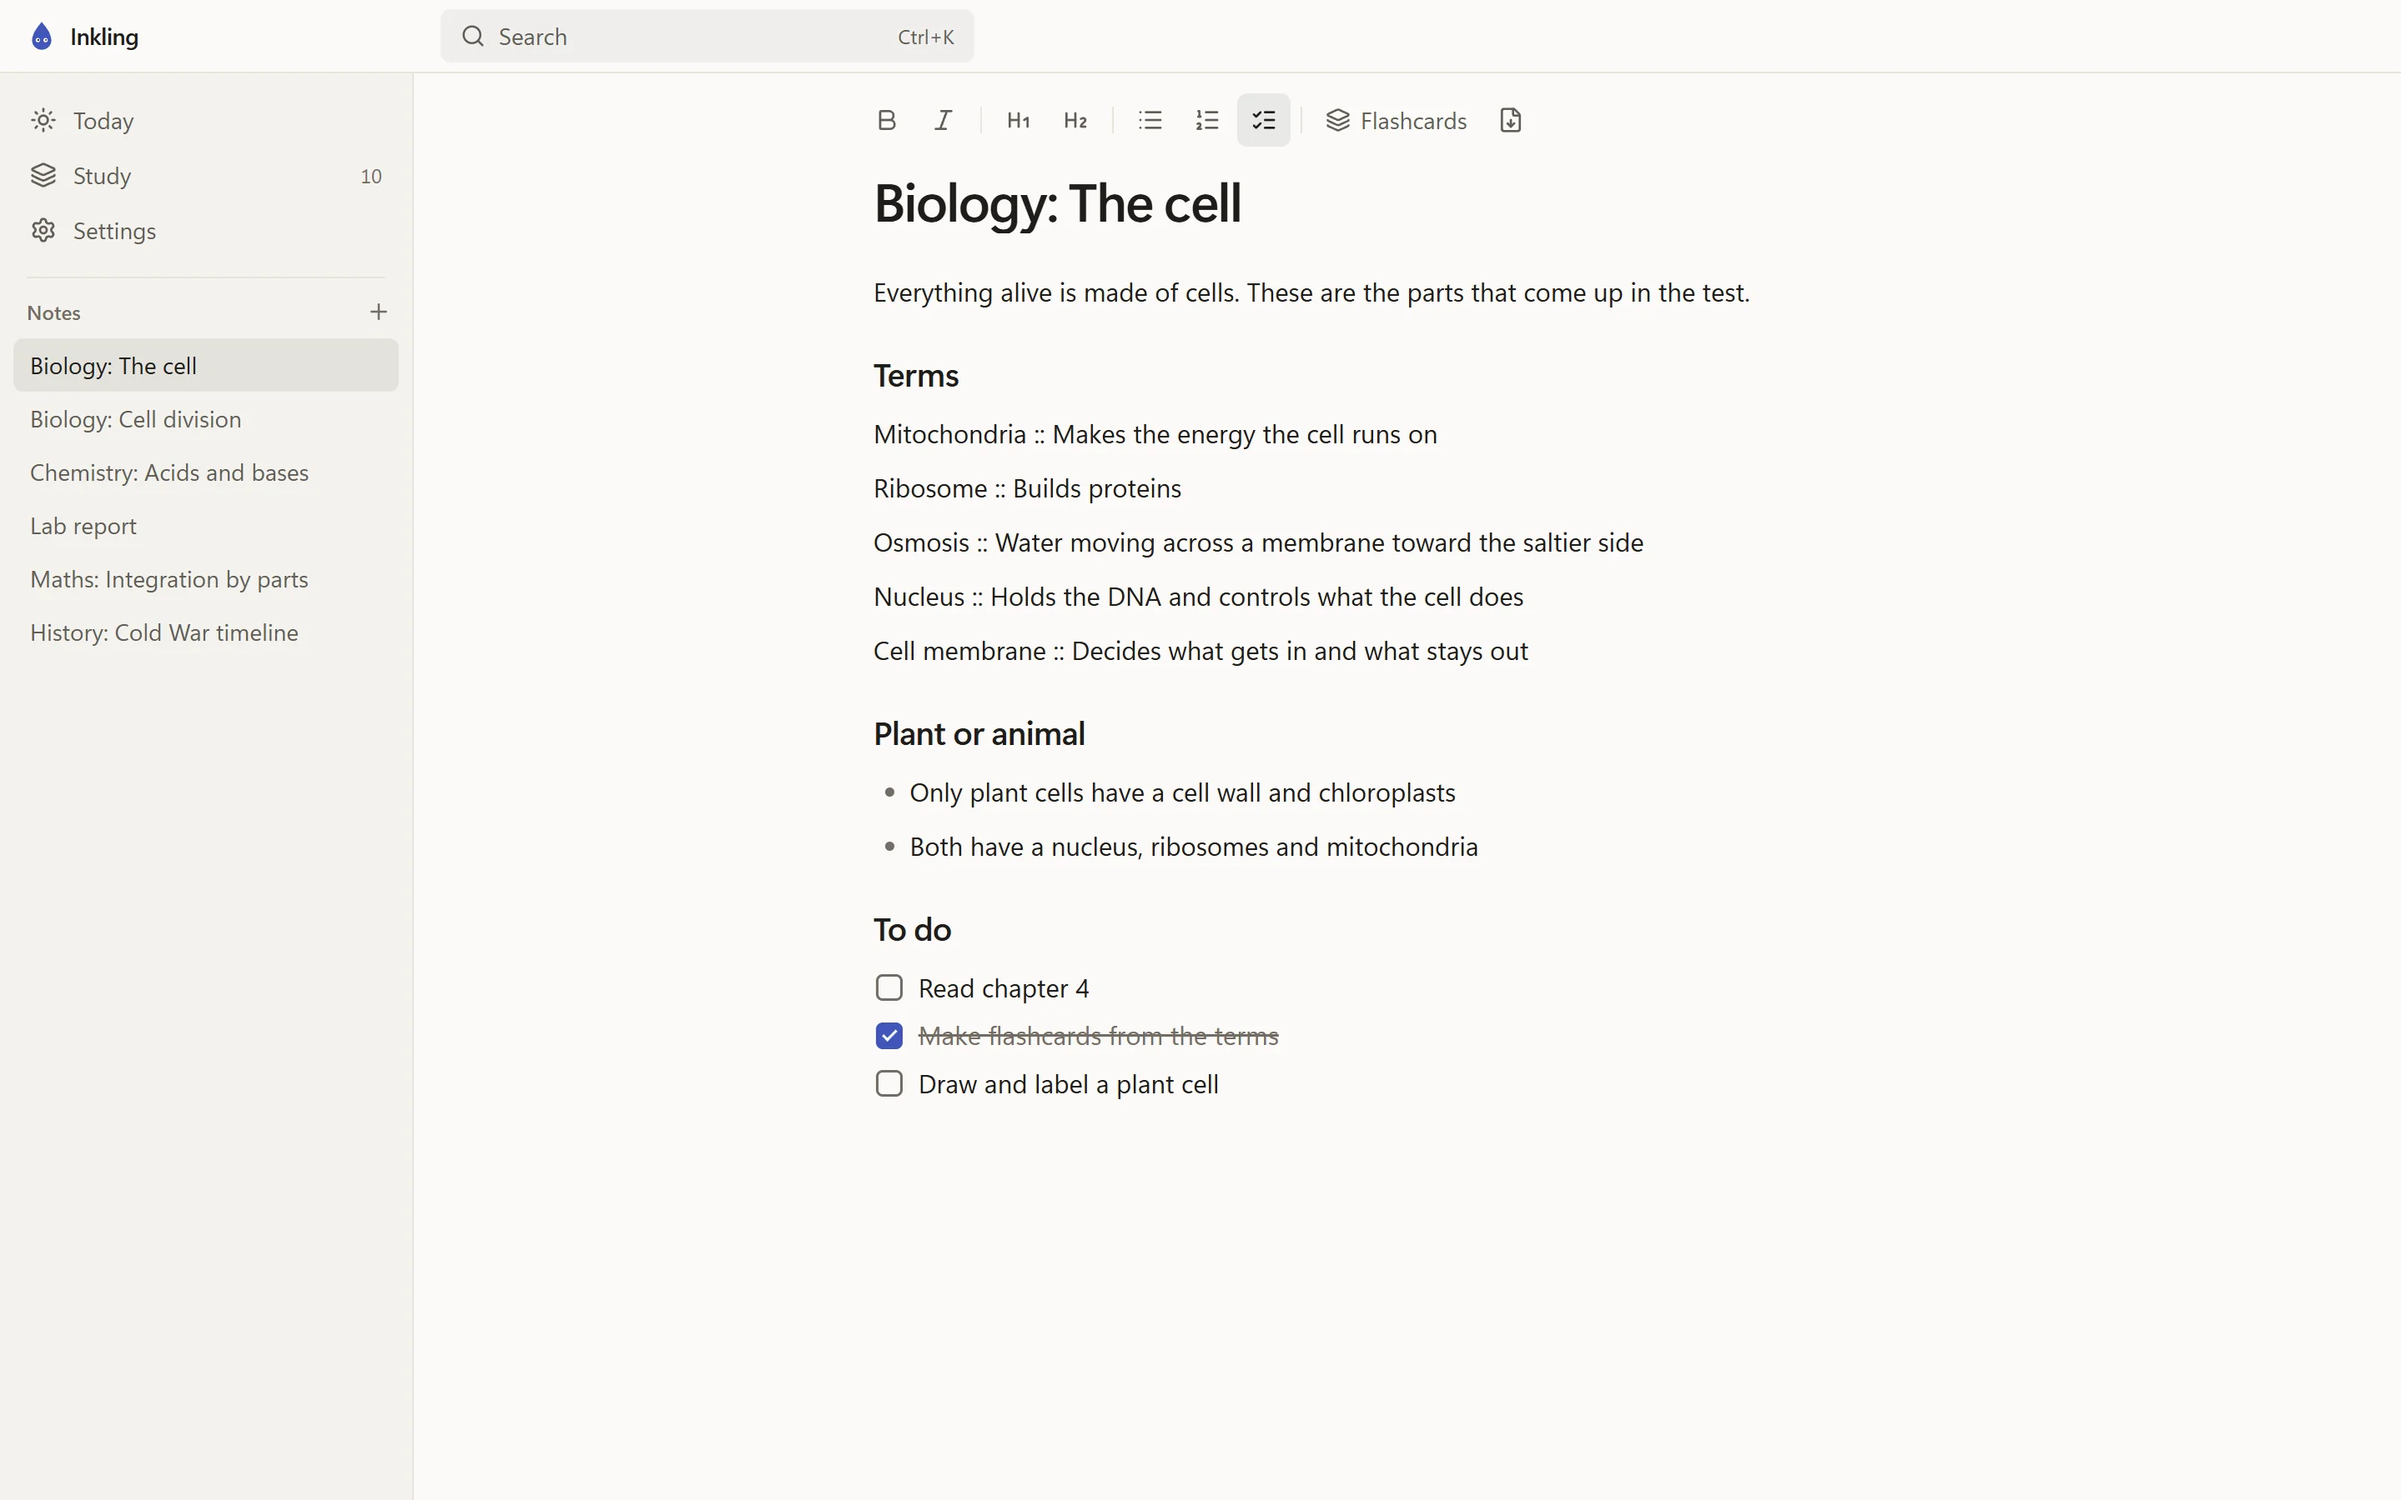
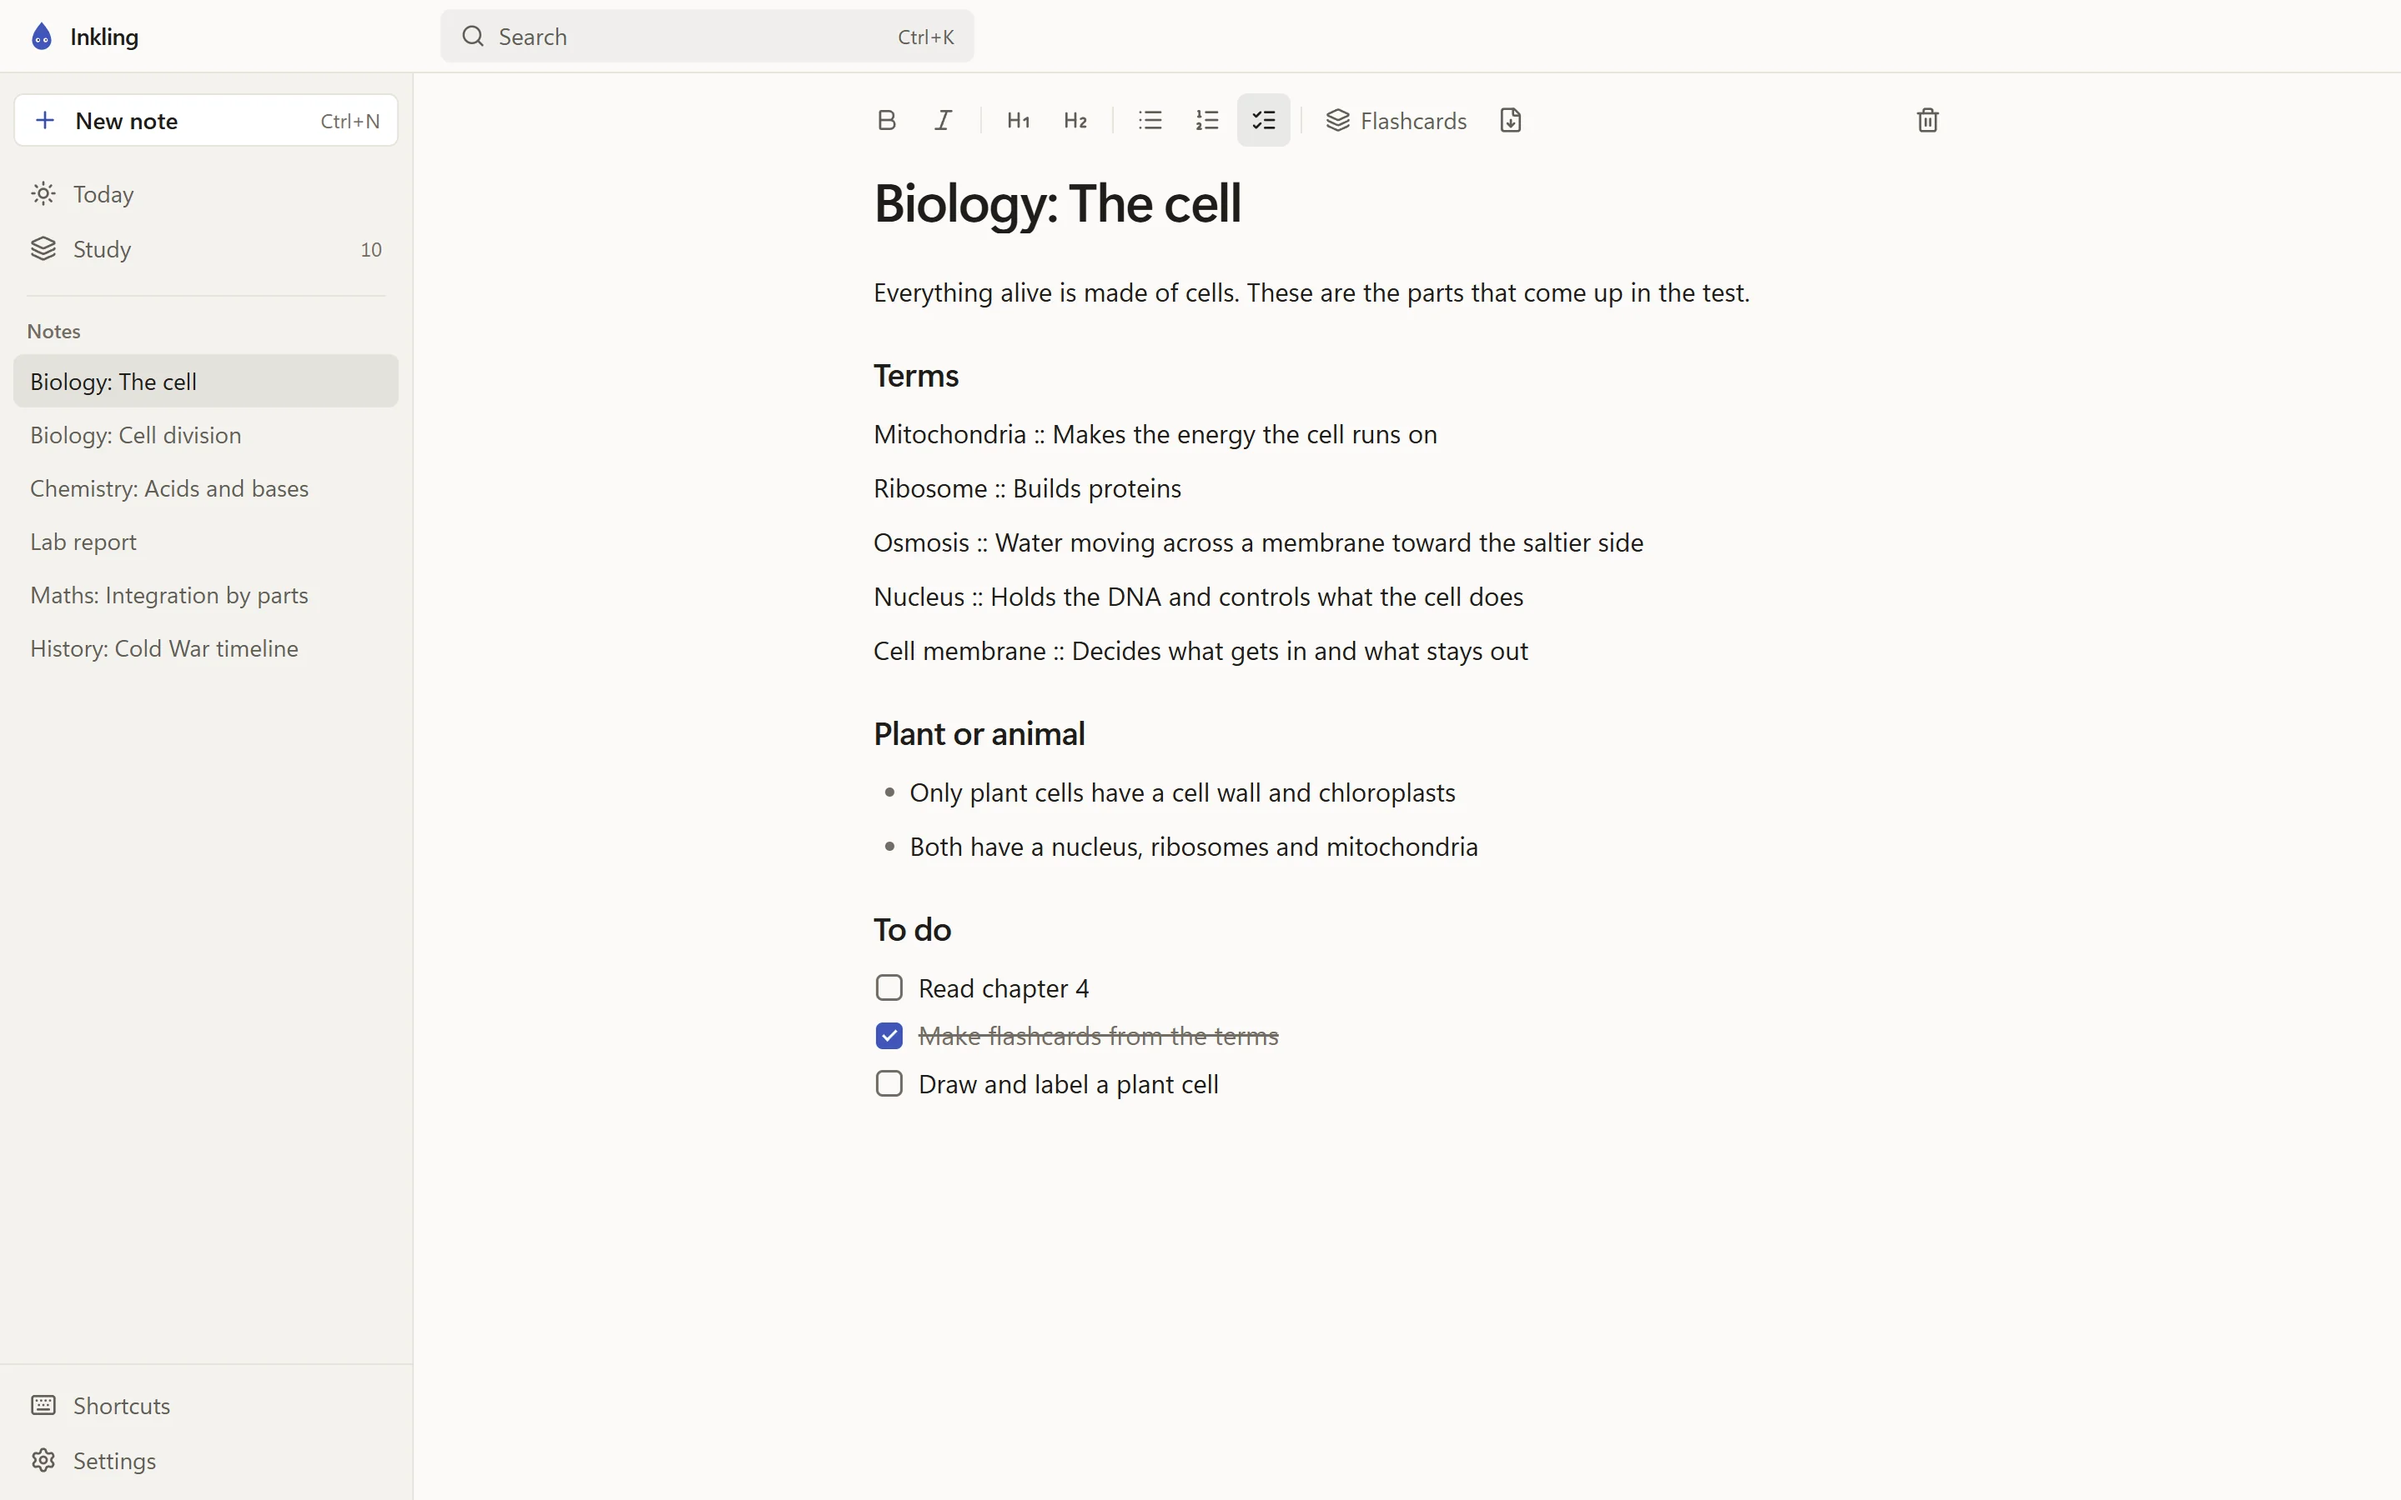
Show the new sidebar and shortcuts on the download page

Changed region(s): [[0.0, 0.2178, 0.125, 0.4356], [0.0, 0.0622, 0.0625, 0.1867], [0.0312, 0.9333, 0.0625, 0.9956]]

diff --git a/site/index.html b/site/index.html
@@ -460,8 +460,10 @@ footer p { margin: 0.3rem 0; }
 <h2 id="keys-h">Keyboard</h2>
 </div>
 <ul class="keys">
-<li><span>Search</span><kbd><kbd>Ctrl+K</kbd></kbd></li>
+<li><span>Search, or jump to Today, Study and Settings</span><kbd><kbd>Ctrl+K</kbd></kbd></li>
 <li><span>New note</span><kbd><kbd>Ctrl+N</kbd></kbd></li>
+<li><span>Today, Study</span><kbd><kbd>Ctrl+1</kbd><kbd>Ctrl+2</kbd></kbd></li>
+<li><span>All shortcuts</span><kbd><kbd>F1</kbd></kbd></li>
 <li><span>Settings</span><kbd><kbd>Ctrl+,</kbd></kbd></li>
 <li><span>Show the answer in a review</span><kbd><kbd>Space</kbd></kbd></li>
 <li><span>Again, Hard, Good or Easy</span><kbd><kbd>1</kbd><kbd>2</kbd><kbd>3</kbd><kbd>4</kbd></kbd></li>
